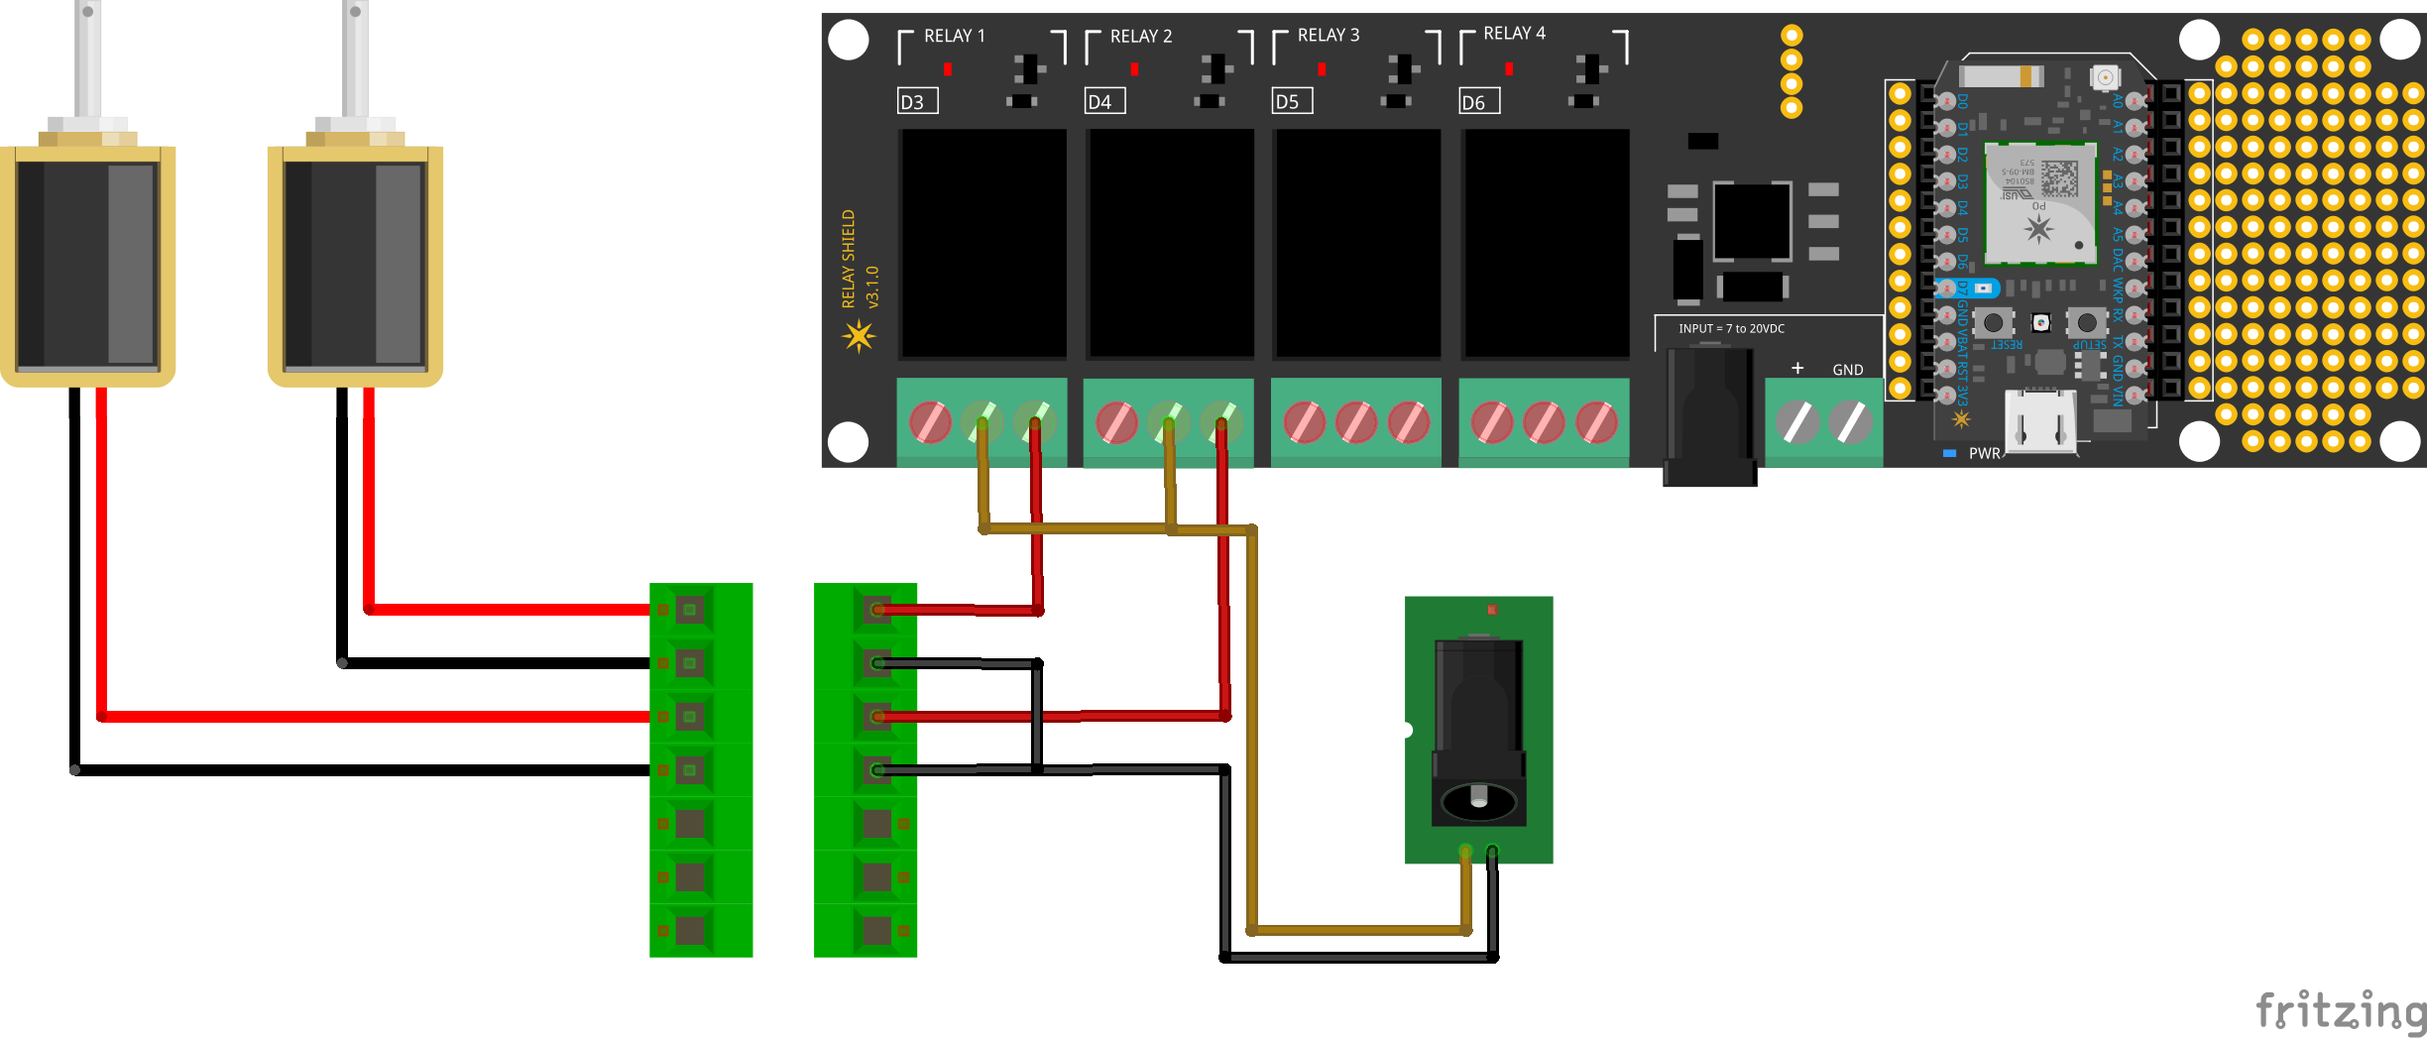
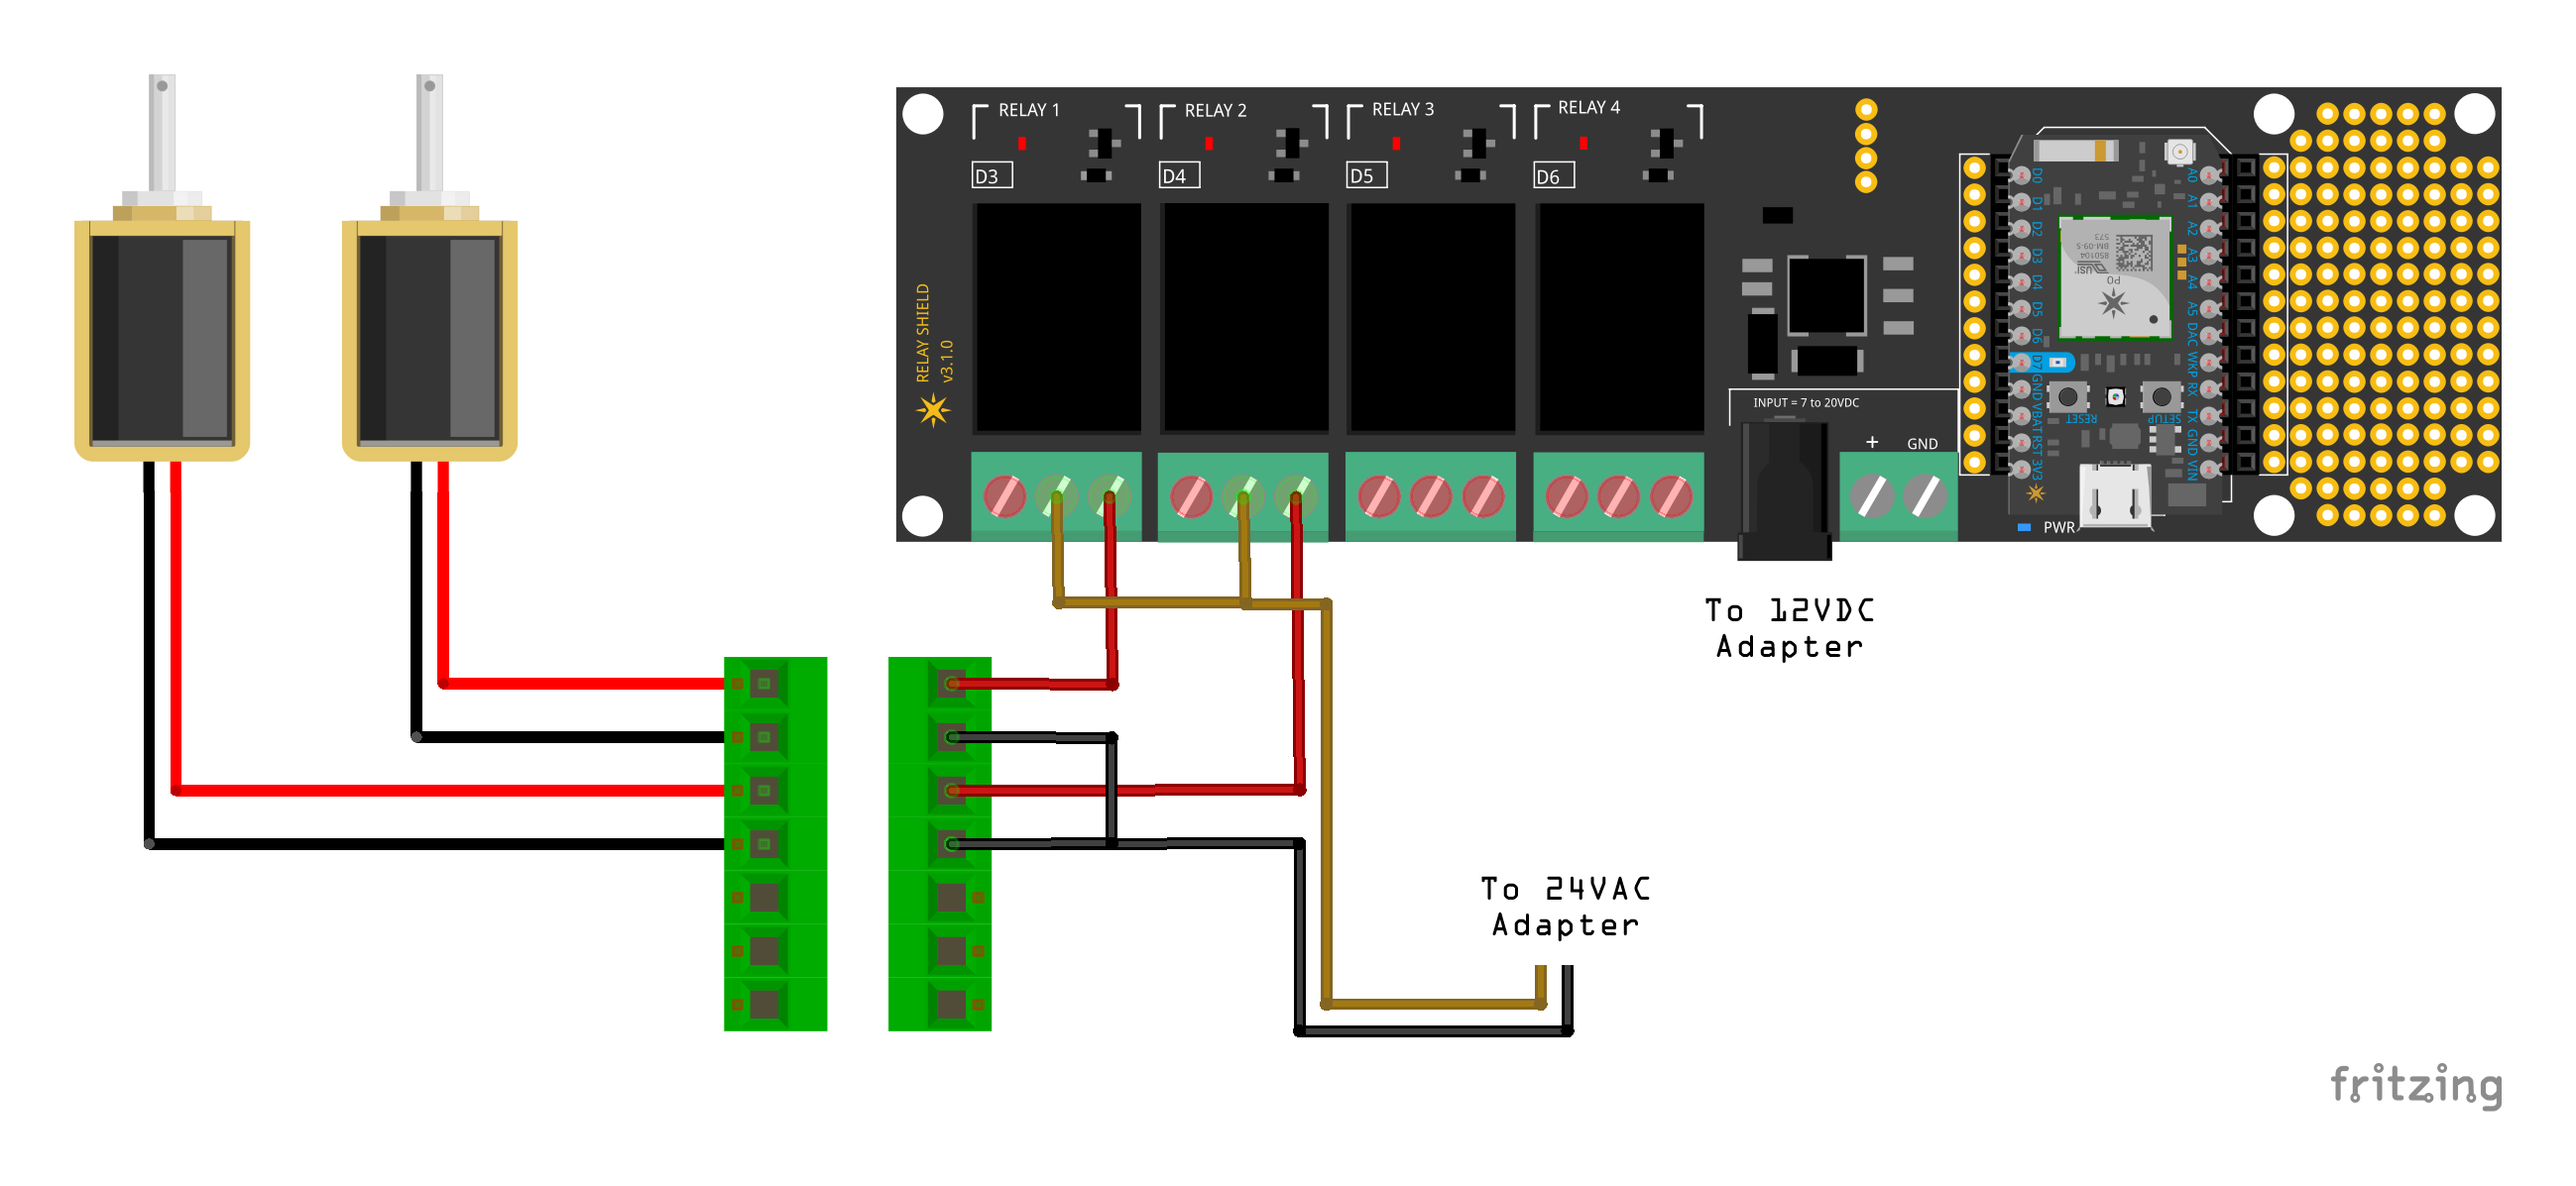
Readme

diff --git a/Readme.md b/Readme.md
@@ -9,6 +9,7 @@ Wifi-Irrigation allows for the control of up to four sprinkler valves using [Sma
 - [Parts List](https://github.com/webdes03/wifi-irrigation#parts-listparts-list)
 - [Assembly](https://github.com/webdes03/wifi-irrigation#parts-list#assembly)
     - [Manifold](https://github.com/webdes03/wifi-irrigation#manifold-1)
+    - [Controller](https://github.com/webdes03/wifi-irrigation#controller-1)
 
 ## Parts List
 ### Controller
@@ -56,11 +57,28 @@ Wifi-Irrigation allows for the control of up to four sprinkler valves using [Sma
 4.	With one of the valves, connect one of the elbow subassemblies to the source side of the valve (as noted by the direction of the arrow). Connect one of the 4-port manifold subassemblies to the output side of the valve. Repeat this step with the second valve.
 5.	Lastly, using the two remaining 2” pieces of PVC, connect the elbow ends of the valve subassemblies to each side of the tee connector.
 
-![Assembly Animation](https://github.com/webdes03/wifi-irrigation/blob/master/Assembly%20Complete.png)
+![Assembly Complete](https://github.com/webdes03/wifi-irrigation/blob/master/Assembly%20Complete.png)
 
 ### Controller
 
+1.  Start by drilling all of the holes in the waterproof enclosure. You'll need to drill a hole for the PG9 connector, one for the RP-SMA antenna connector, one for the 7-pin waterproof connector, and 4 holes for the pipe straps to mount the manifold to the enclosure.
+2.  Mount the PG9 connector, RP-SMA antenna connector, and 7-pin waterproof connector.
+3.  Using 4 machine screws with lock washers, mount the manifold to the top of the controller box using two pipe straps, being sure to place silicon sealant around the inside of the bolts to help ensure the waterproofing of the box.
+4.  Cut your extension cord, approximately 2 feet from the female end, and thread the male end through the PG9 connector. Clamp down the outside of the connector, then strip and reconnect the two ends of the extension cord. Cap the wires with wire nuts. Connect the 3-outlet grounded adapter to the female end of the extension cord inside the enclosure. Connect the 24VAC transformer and 12VDC transformer to the 3-outlet adapter.
+5.  Solder the valve wires to the male end of the 7-pin waterproof connector. I used pins 1/2 for valve 1 and 3/4 for valve 2. Also solder 4 wires to the matching pins of the female side of the 7-pin connector, and wire them (along with the 24VAC transformer) as shown in the schematic below. We'll use the "MAIN" (center) terminal on the relay and the "NO" (normally open) side of the relay to control the valves.
+6.  Connect the 12VDC's barrel jack to the connector on the relay shield, and insert the Particle Photon into its place on the relay shield.
+7.  Lastly, connect the pigtail from the u.Fl to RP-SMA antenna connector to the u.Fl connector on the Particle Photon, and use a piece of double-sided tape to mount the relay shield to the underside of the enclosure's lid.
+
+![Schematic](https://github.com/webdes03/wifi-irrigation/blob/master/Controller.png)
+
 ## Software & Automation
-- [Particle Photon Sketch](https://github.com/webdes03/wifi-irrigation/blob/master/wifi-irrigation.ino)
+
+### Particle Setup
+1.  Create a new Particle App
+2.  Paste the contents of the [Particle Photon sketch](https://github.com/webdes03/wifi-irrigation/blob/master/wifi-irrigation.ino) into the IDE's code window, and save the app as "wifi-irrigation".
+3.  Click the "Libraries" icon at the bottom left of the screen, and include the "RelayShield" library in the project by selecting it, then clicking the blue "Include in Project" button, then select the "wifi-irrigation" app. Click the blue "Confirm" button to continue.
+4.  Save the app, and click the checkmark icon to verify the sketch.
+5.  Assuming no errors are discovered, click the devices icon at the lower left of the screen, click the star icon next to the Photon you wish to flash the code to, then click the lightening bolt at the top left corner to flash the code to the Photon.
+
 - [SmartThings Device Type](https://github.com/webdes03/SmartThingsPublic/tree/master/devicetypes/webdes03/wifi-irrigation.src)
 
